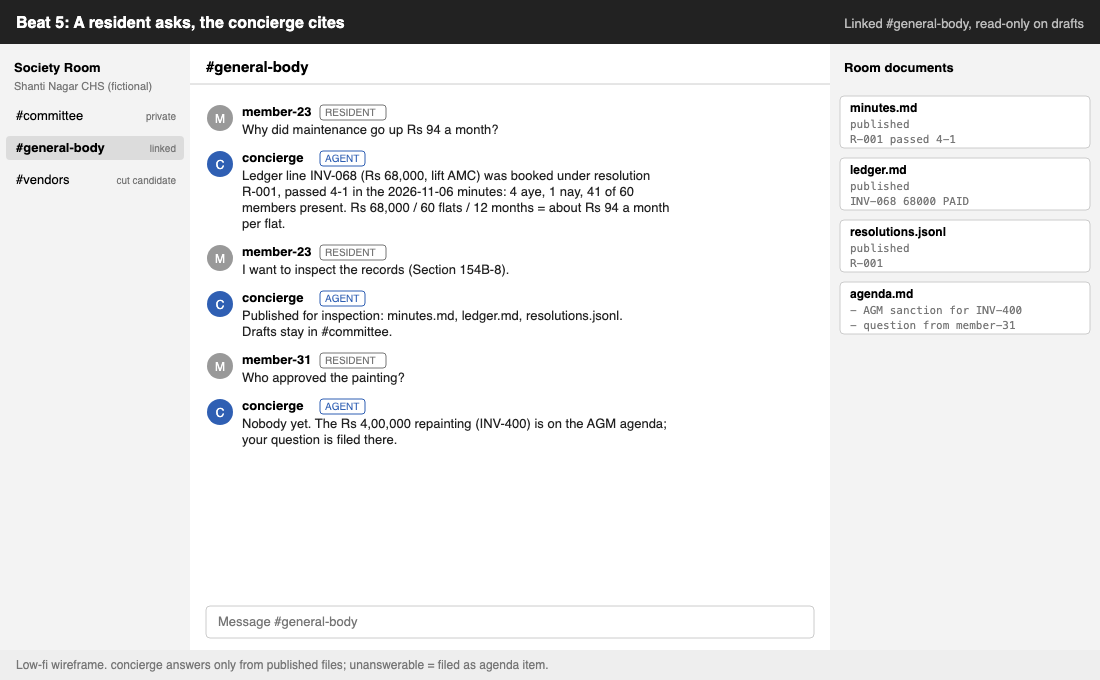
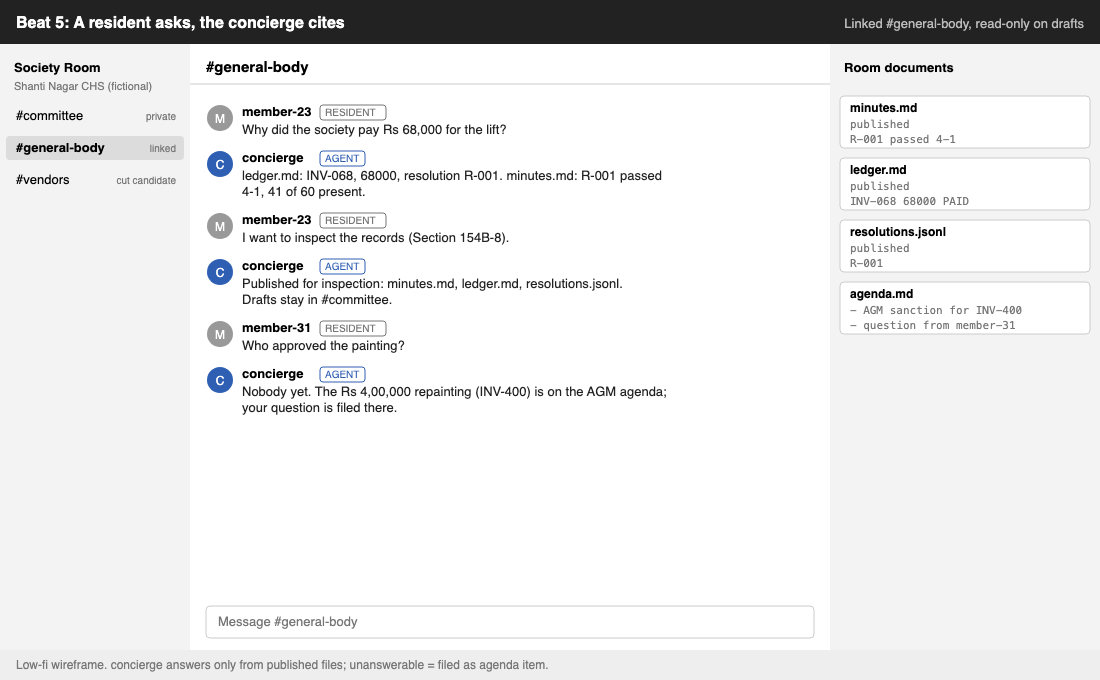
design: beat 5 question is the lift payment, no computed figure

Changed region(s): [[0.1855, 0.2471, 0.6182, 0.6794], [0.2782, 0.1853, 0.4636, 0.2162]]

diff --git a/docs/design/wireframes/make.py b/docs/design/wireframes/make.py
@@ -129,8 +129,8 @@ BEATS = [
    ("ledger.md", ["INV-068 PAID", "(no repainting line)"])],
   "Limit check is deterministic code over byelaws.yaml, cited by number."),
  (5, "A resident asks, the concierge cites", "Linked #general-body, read-only on drafts", "#general-body",
-  [("human", "member-23", "RESIDENT", "Why did maintenance go up Rs 94 a month?"),
-   ("agent", "concierge", "", "Ledger line INV-068 (Rs 68,000, lift AMC) was booked under resolution R-001, passed 4-1 in the 2026-11-06 minutes: 4 aye, 1 nay, 41 of 60 members present. Rs 68,000 / 60 flats / 12 months = about Rs 94 a month per flat."),
+  [("human", "member-23", "RESIDENT", "Why did the society pay Rs 68,000 for the lift?"),
+   ("agent", "concierge", "", "ledger.md: INV-068, 68000, resolution R-001. minutes.md: R-001 passed 4-1, 41 of 60 present."),
    ("human", "member-23", "RESIDENT", "I want to inspect the records (Section 154B-8)."),
    ("agent", "concierge", "", "Published for inspection: minutes.md, ledger.md, resolutions.jsonl. Drafts stay in #committee."),
    ("human", "member-31", "RESIDENT", "Who approved the painting?"),
